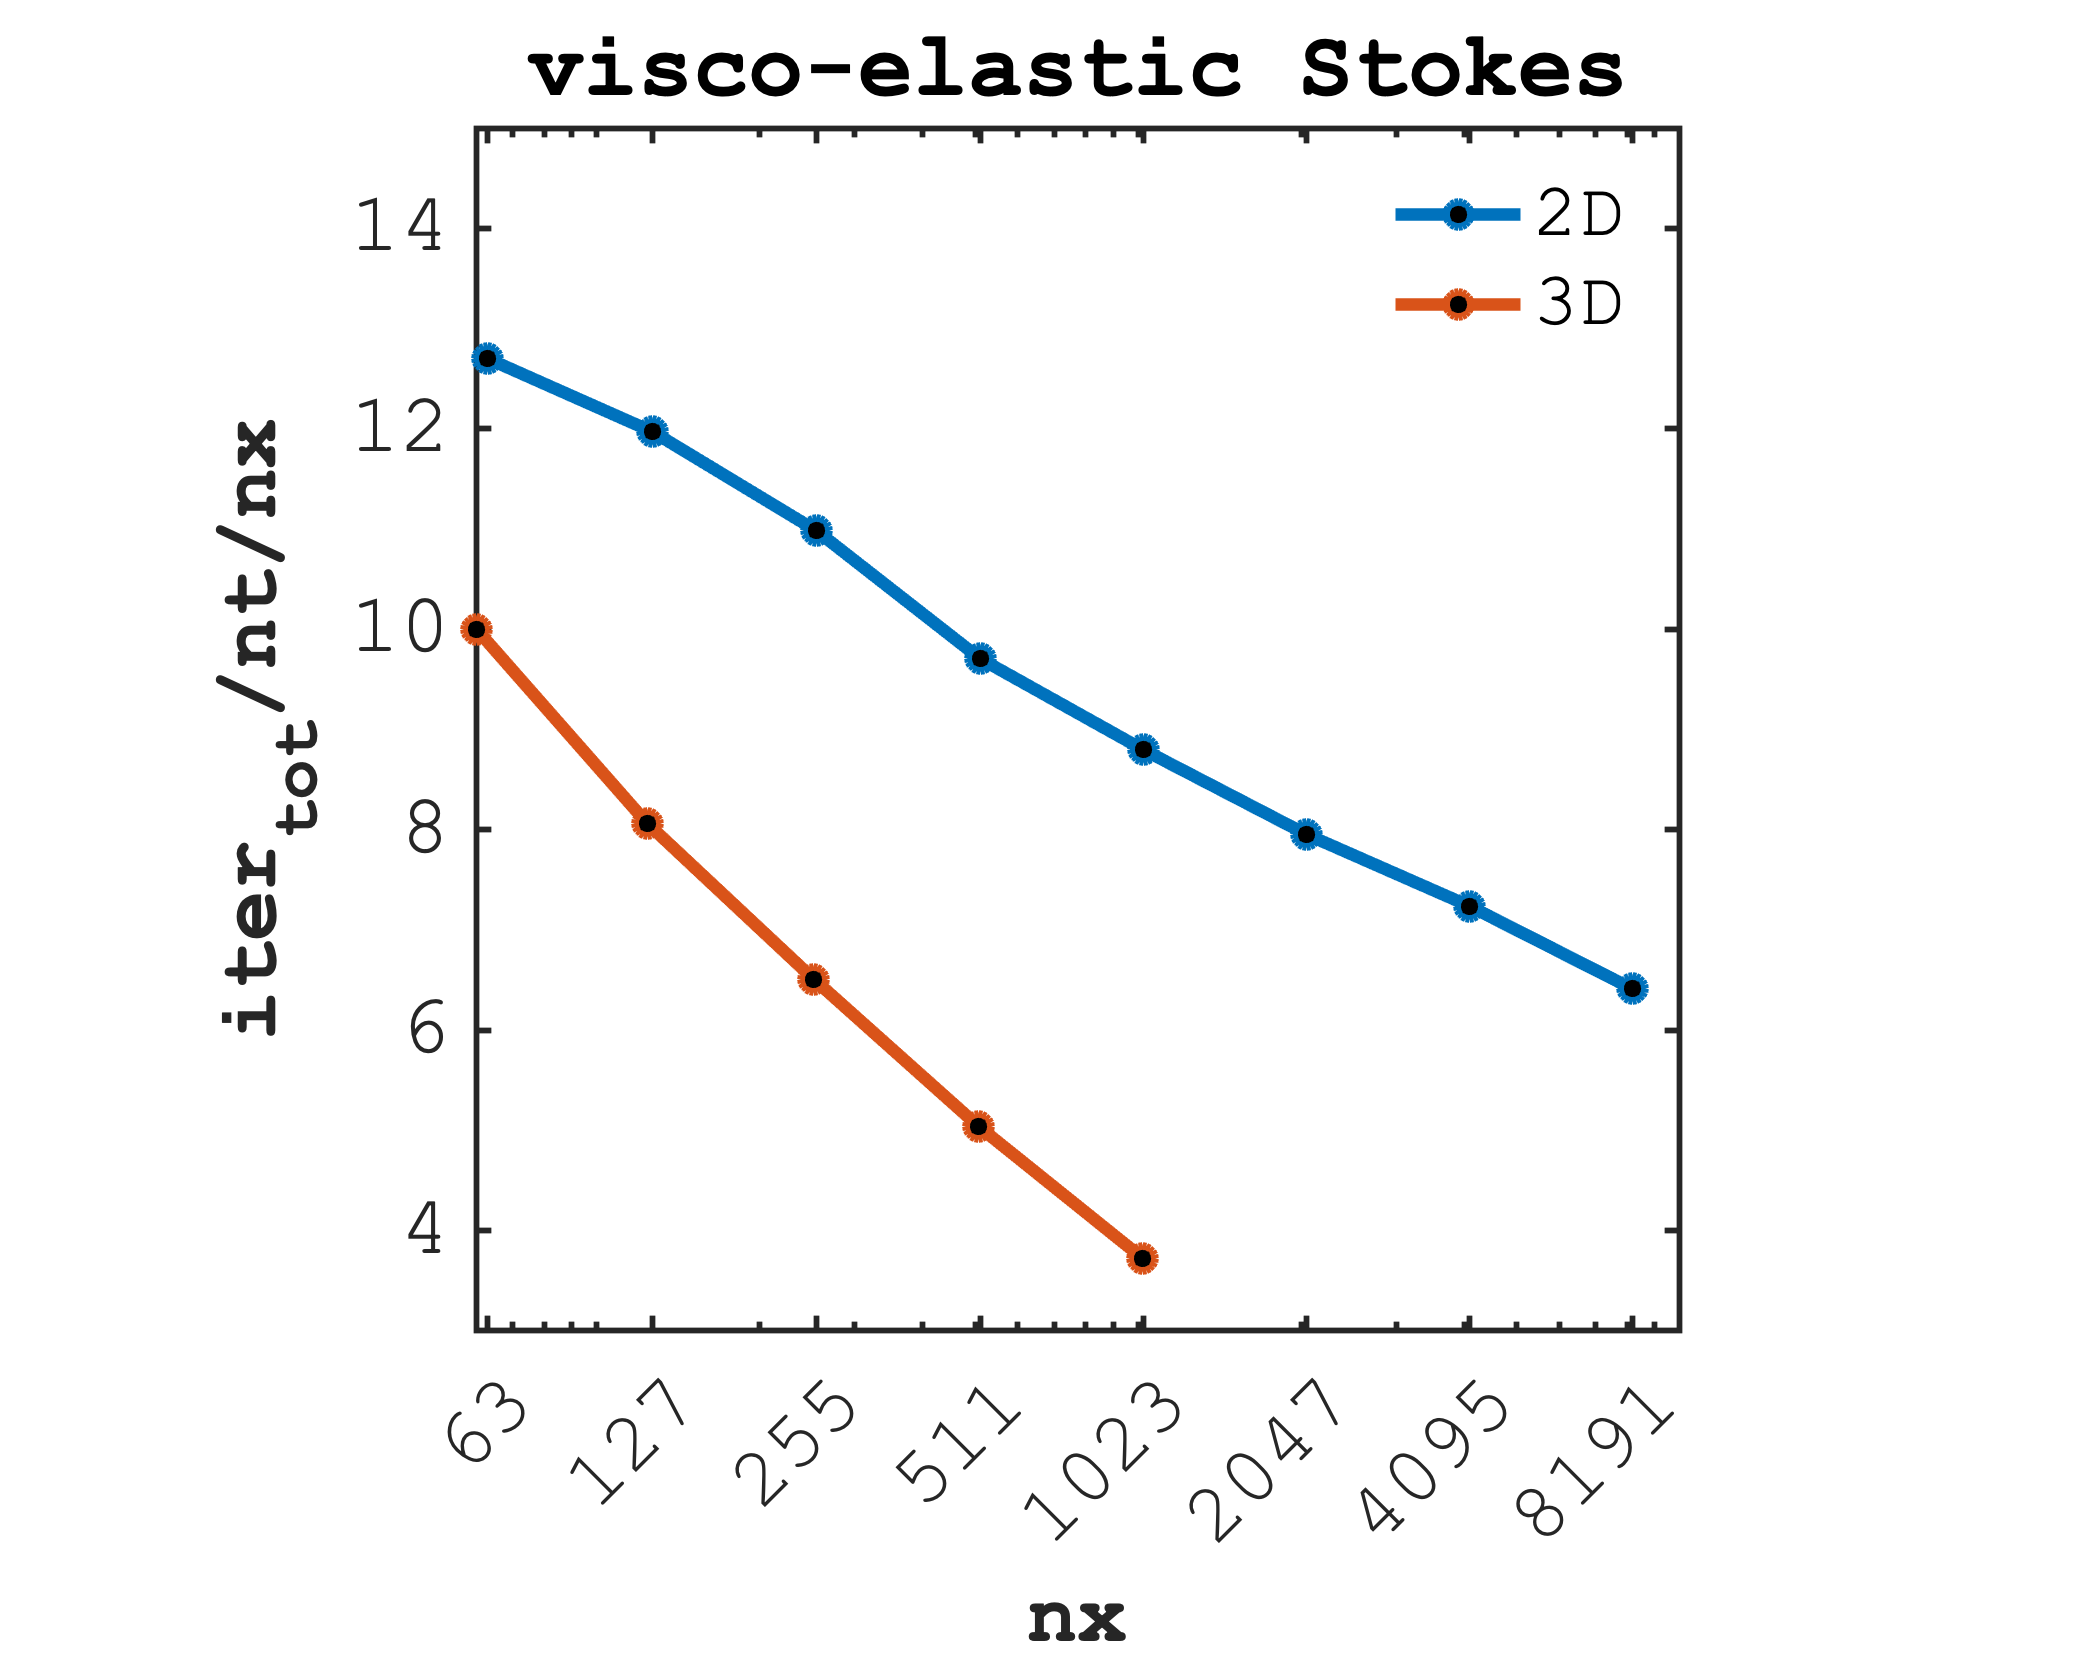
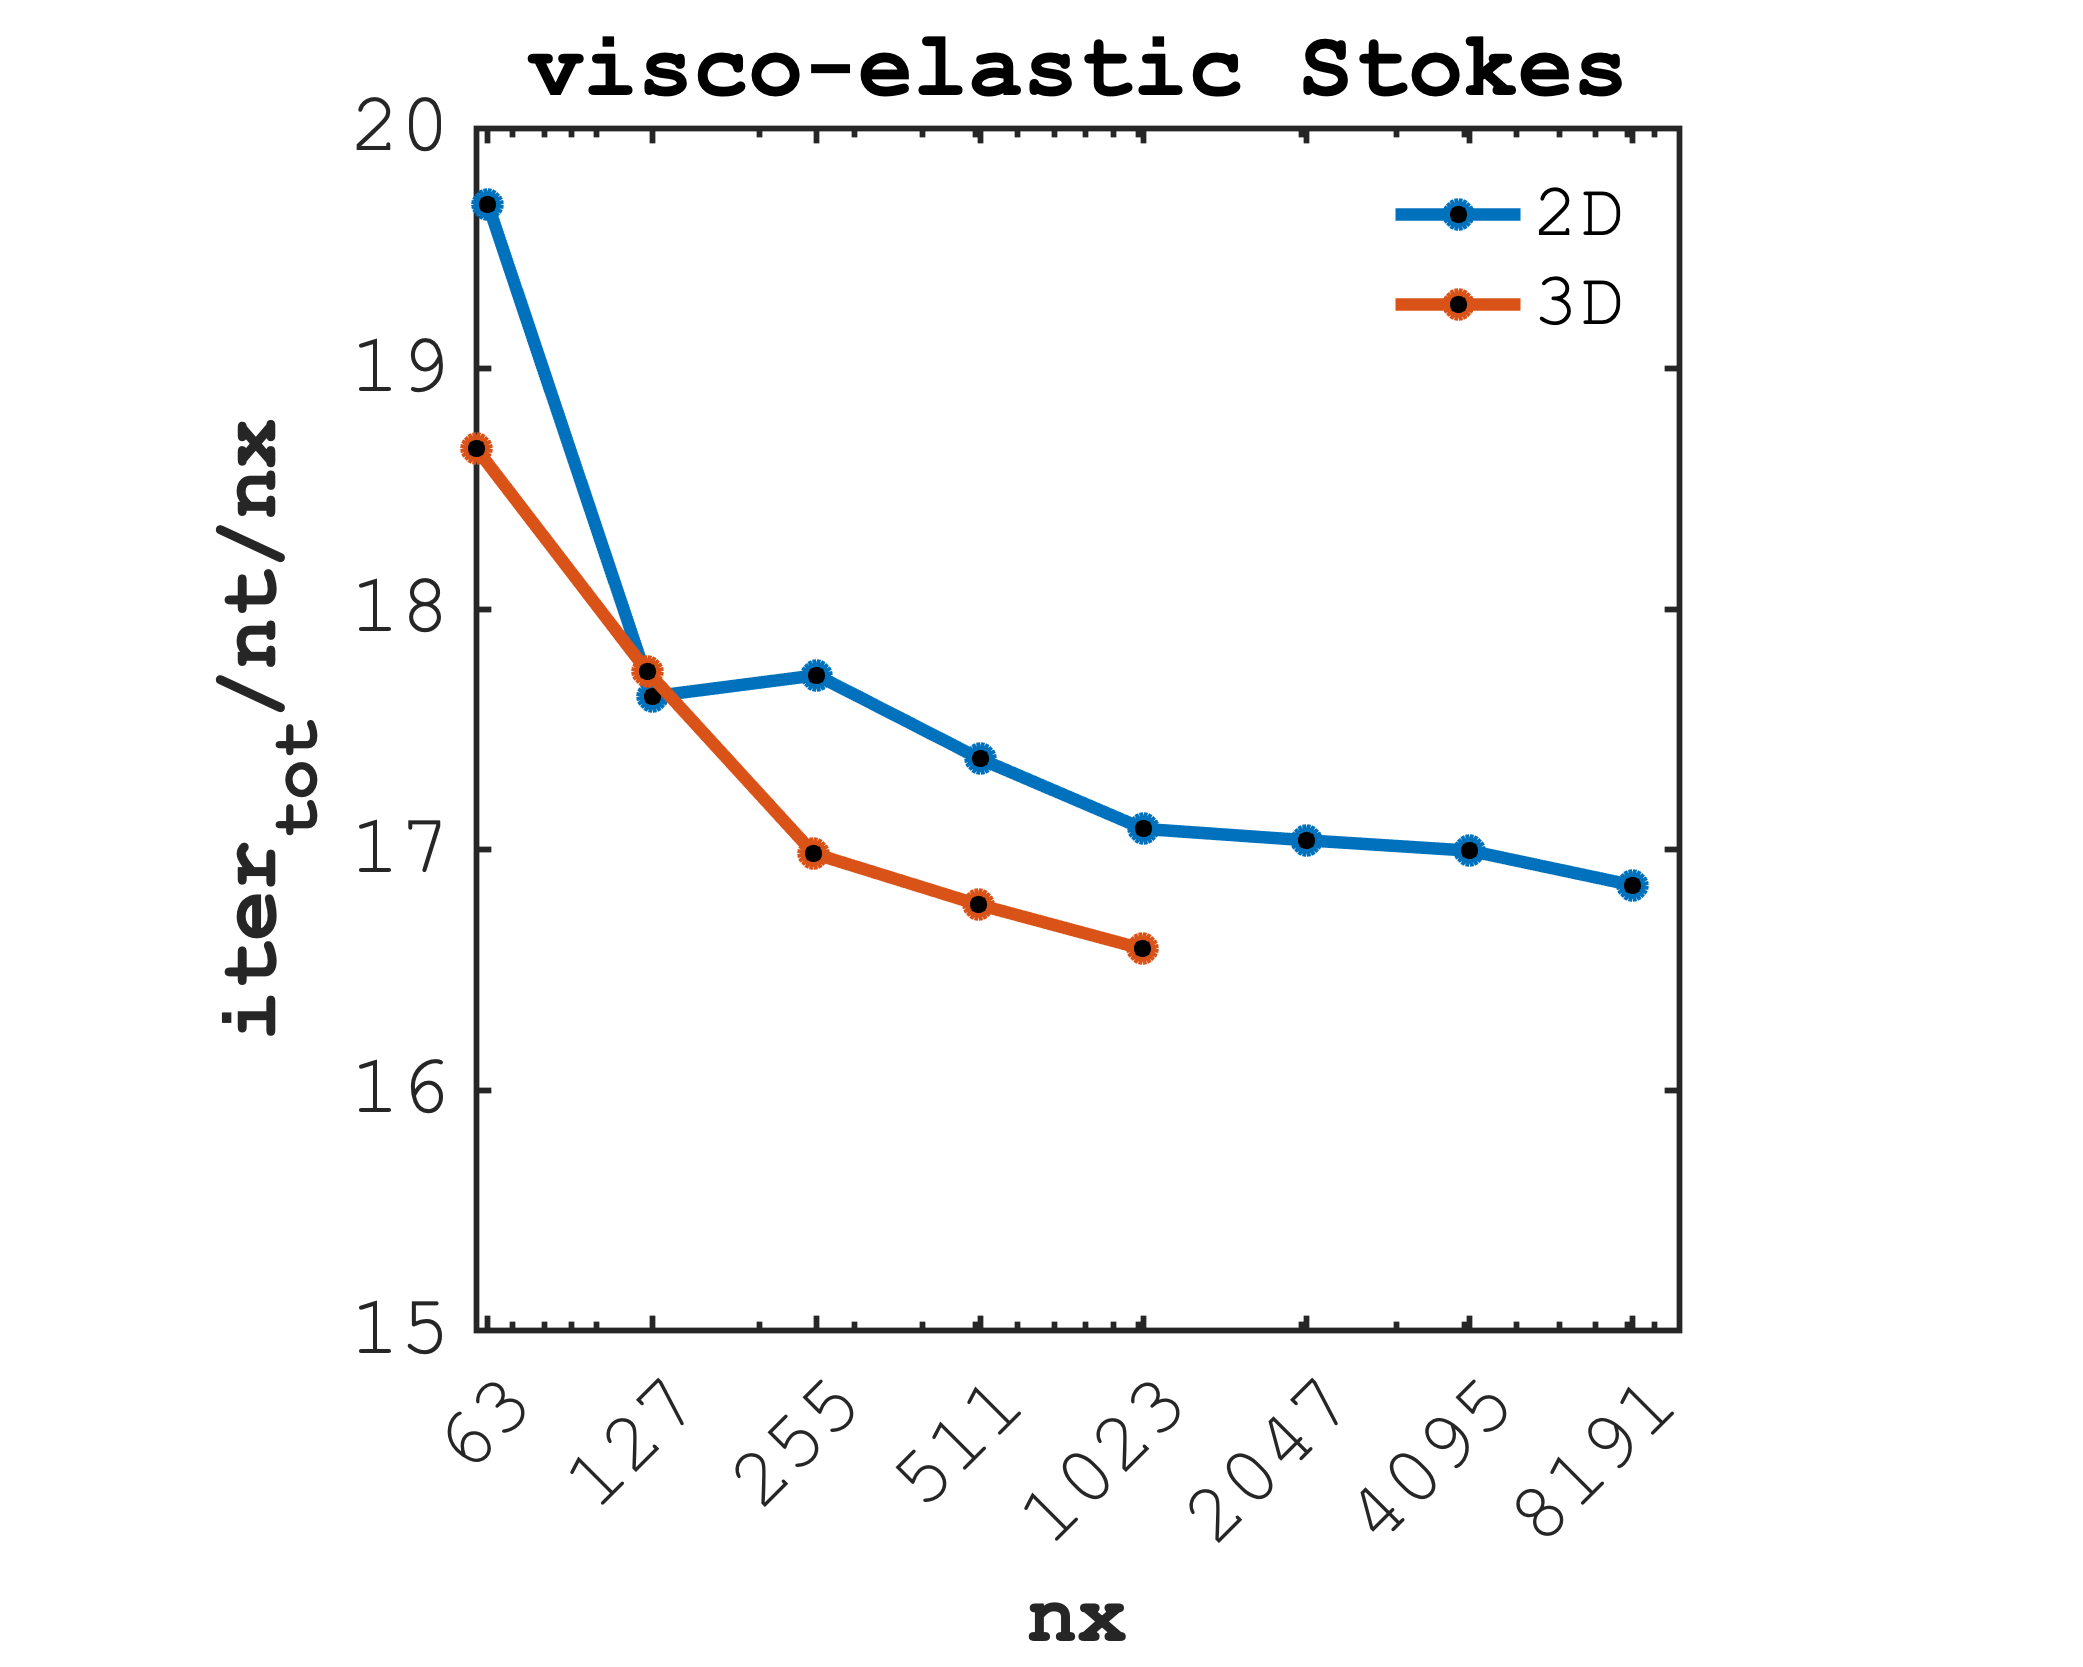
Add new residual scaling and norm.

diff --git a/visu/viz_scaling_stokes.m b/visu/viz_scaling_stokes.m
@@ -29,7 +29,7 @@ semilogx(Stokes_2D(1,2:end), Stokes_2D(3,2:end)./Stokes_2D(1,2:end)./Stokes_2D(4
          Stokes_3D(1,1:end), Stokes_3D(4,1:end)./Stokes_3D(1,1:end)./Stokes_3D(5,1:end),'-o', ...
          'linewidth',3, 'MarkerFaceColor','k'), axis square, set(gca, 'fontsize',FS, 'linewidth',1.4)
 ylabel({' ';'\bf{iter_{tot}/nt/nx}'}, 'fontsize',FS)
-ylim([3 15])
+ylim([15 20]) % ylim([3 15])
 lg=legend('2D', '3D'); set(lg,'box','off')
 set(gca, 'XTick',Stokes_2D(1,2:end))
 xtickangle(45)
